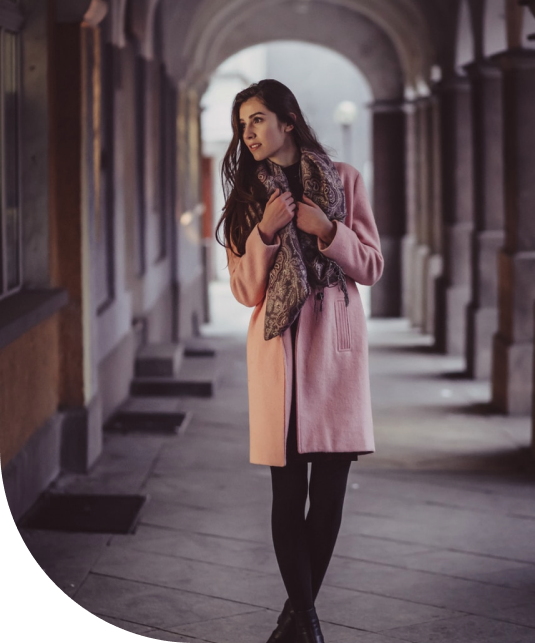
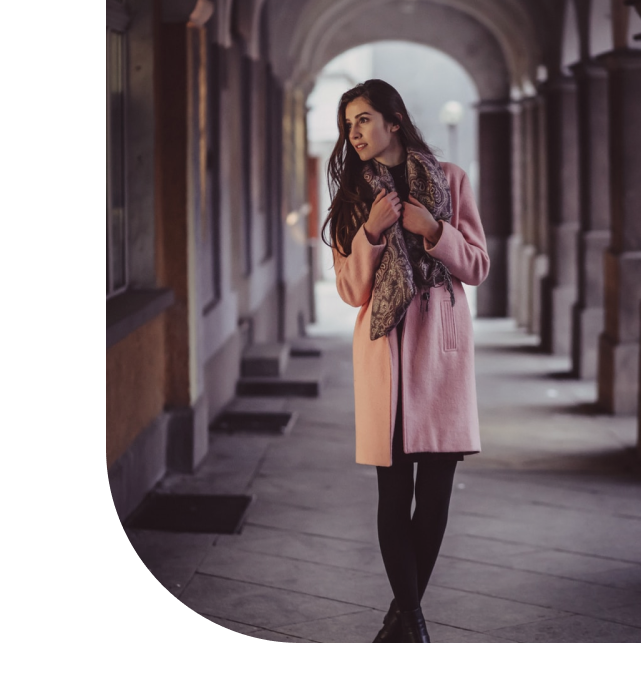
banner_done

diff --git a/class 11/css/style.css b/class 11/css/style.css
@@ -24,11 +24,11 @@ nav{
     padding: 50px 0;
 }
 
-nav .navbar_box{
+nav .box{
     align-items: center;
 }
 
-.navbar_box{
+.box{
     display: flex;
 }
 
@@ -71,4 +71,59 @@ nav .button .button_gap{
 nav .button a:hover{
     background: #FAE3B6;
     border-color: #FDBB57;
+}
+
+/* banner_part */
+.banner{
+    background: #FAE3B6;
+}
+.banner .box{
+    padding-top: 100px;
+}
+
+.box .left{
+    width: 50%;
+}
+.box .left h1{
+    width: 540px;
+    height: 263px;
+    font-family: "Poppins", sans-serif;
+    font-size: 64px;
+    font-weight: 600;
+}
+.box .left{
+    width: 50%;
+}
+
+.box .left p{
+    padding-top: 38px;
+    width: 530px;
+    height: 120px;
+    font-family: "Poppins", sans-serif;
+    font-size: 22px;
+    font-weight: 400;
+    padding-bottom: 76px;
+}
+
+.box .left a{
+    padding: 15px 30px;
+    color: white;
+    background: black;
+    font-family: "Poppins", sans-serif;
+    font-weight: 600;
+    font-size: 24px;
+    border-radius: 10px;
+    border: 1px solid transparent;
+}
+
+.box .left a:hover{
+    background: #FAE3B6;
+    border: 1px solid black;
+    color: black;
+}
+
+
+.box .right{
+    width: 50%;
+    padding-bottom: 102px;
 }

diff --git a/class 11/index.html b/class 11/index.html
@@ -15,7 +15,7 @@
     <!-- navbar start -->
     <nav>
         <div class="container">
-            <div class="navbar_box">
+            <div class="box">
                 <div class="logo">
                     <img src="image/Fresh.png" alt="">
                 </div>
@@ -39,10 +39,18 @@
 
 
     <!-- banner start -->
-     <section>
-        <div>
-            <div class="left"></div>
-        <div class="right"></div>
+     <section class="banner">
+        <div class="container">
+            <div class="box">
+                <div class="left">
+                    <h1>Find The Best Fashion Style For You</h1>
+                    <p>Lorem ipsum dolor sit amet, consectetur adipiscing elit. Arcu, odio pellentesque mattis pulvinar felis. At arcu ornare rhoncus, elementum non viverra. </p>
+                    <a href="#">Shop Now</a>
+                </div>
+                <div class="right">
+                    <img src="./image/banner.png" alt="">
+                </div>
+            </div>
         </div>
      </section>
     <!-- banner end -->
